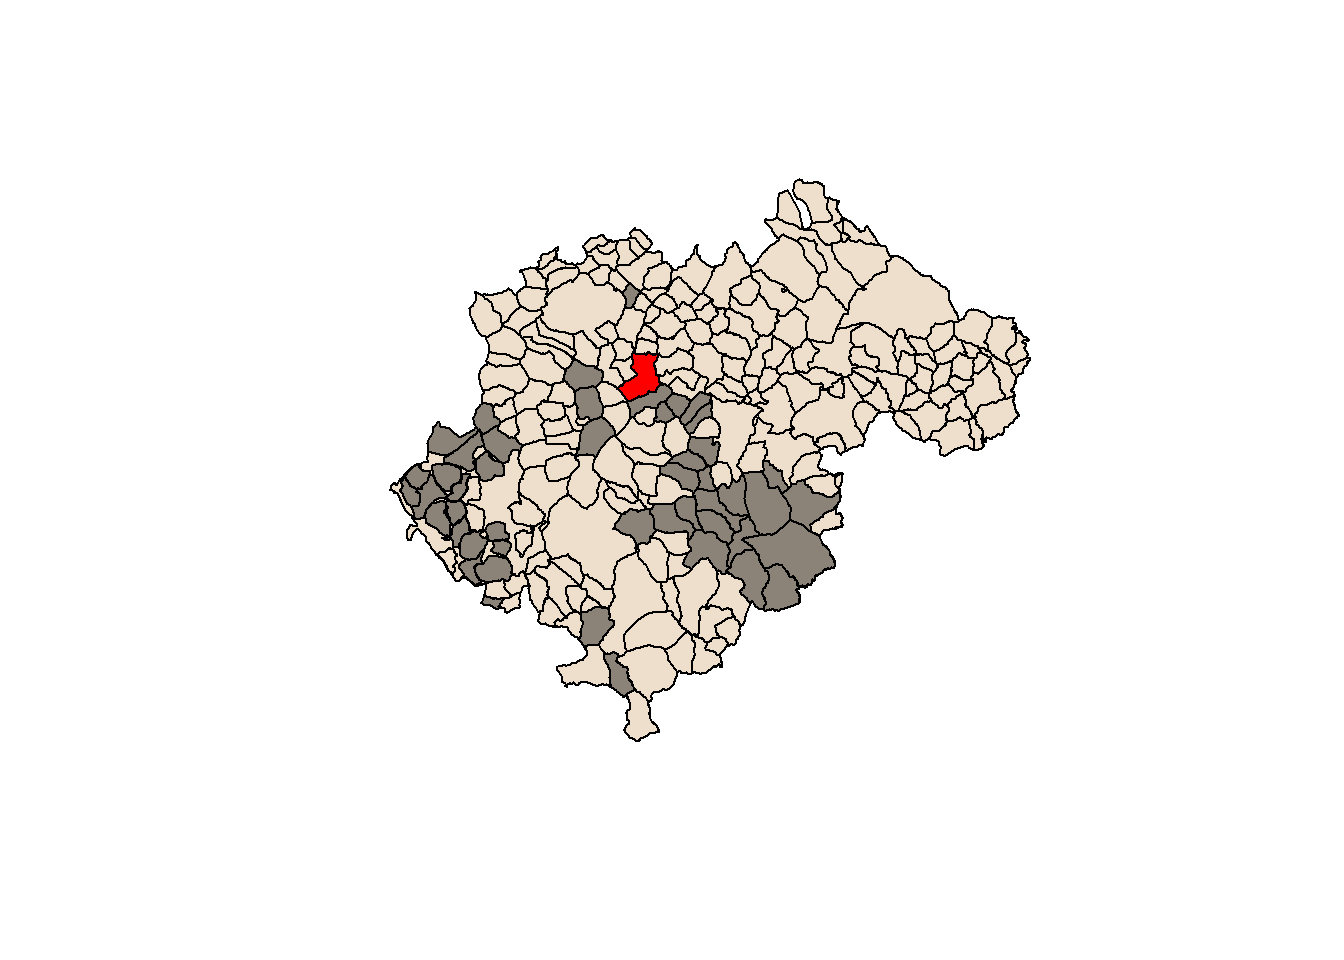
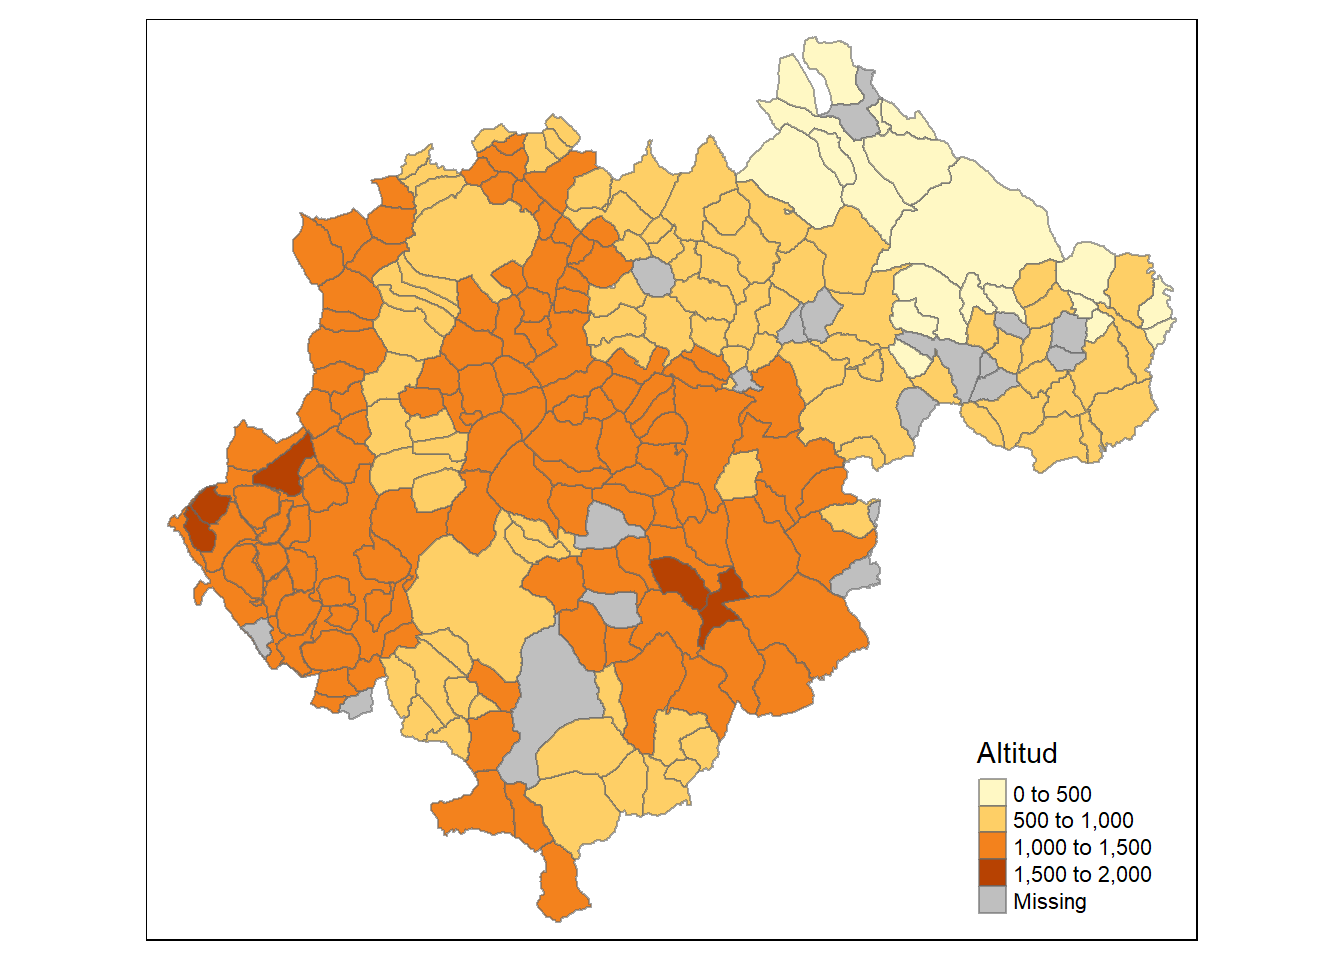
aa

diff --git a/public/blog/2017/12/29/altitud-de-los-pueblos-de-teruel-mapas/index.html b/public/blog/2017/12/29/altitud-de-los-pueblos-de-teruel-mapas/index.html
@@ -281,7 +281,18 @@ municipios@data &lt;-  left_join( municipios@data , Teruel, by = c(&quot;NombreM
 <p><img src="../../../../../post/2017-12-29-altitud-de-los-pueblos-de-teruel-mapas_files/figure-html/unnamed-chunk-7-1.png" width="672" /></p>
 <p>Gráfico de los municipios por altura. En color azulito las zonas por debajo de 600 metros, aproximadamente el <a href="https://es.wikipedia.org/wiki/Bajo_Arag%C3%B3n">Bajo Aragón</a>. En marrón oscuro las zonas más altas entre ellas mi pueblo.</p>
 <p>Tengo que aprender un poco de palettes!! Justo cabo de ver <a href="https://github.com/AndreaCirilloAC/paletter">este pkg</a></p>
-<p>Ahora un gráfico con los pueblos más altos que Pancrudo. Pancrudo es mi pueblo y lo voy a poner en rojo. En marrón oscuro los que nos ganan en altura. Tan tan arriba no creo que sea sano vivir!! 😱 😄</p>
+<p>Pero seguro que con <code>tmap</code> sale más bonito, y voy a dar más cortes en la escala</p>
+<pre class="r"><code>library(tmap)
+library(viridisLite)
+
+  tm_shape(municipios, alpha = 0.3) +
+  tm_fill(col = &quot;Altitud&quot;, title = &quot;Altitud&quot;, n = 5) +
+  tm_polygons(border.alpha = 0.6) +
+  tm_layout(legend.position = c(&quot;right&quot;, &quot;bottom&quot;))</code></pre>
+<p><img src="../../../../../post/2017-12-29-altitud-de-los-pueblos-de-teruel-mapas_files/figure-html/unnamed-chunk-8-1.png" width="672" /></p>
+<p>Sí!! Sale más bonito.</p>
+<p><br></p>
+<p>Ahora un gráfico con los pueblos más altos que Pancrudo. Pancrudo es mi pueblo y lo voy a poner en rojo. En marrón oscuro los que nos ganan en altura. Tan tan arriba no creo que sea sano vivir!! 😨 😃</p>
 <p><br></p>
 <div id="mapa-con-los-pueblos-mas-altos-que-pancrudo" class="section level2">
 <h2>Mapa con los pueblos más altos que Pancrudo</h2>
@@ -293,7 +304,7 @@ sel &lt;- municipios$Altitud &gt; my_sel$Altitud  &amp; !is.na(municipios$Altitu
 plot(municipios[ sel, ], col = &quot;antiquewhite4&quot;, add = TRUE) 
 sel &lt;- municipios$Altitud == my_sel$Altitud  &amp; !is.na(municipios$Altitud)
 plot(municipios[ sel, ], col = &quot;red&quot;, add = TRUE) # add selected zones to map</code></pre>
-<p><img src="../../../../../post/2017-12-29-altitud-de-los-pueblos-de-teruel-mapas_files/figure-html/unnamed-chunk-8-1.png" width="672" /></p>
+<p><img src="../../../../../post/2017-12-29-altitud-de-los-pueblos-de-teruel-mapas_files/figure-html/unnamed-chunk-9-1.png" width="672" /></p>
 <p>Como veis, Pancrudo está bastante alto, 1235 metros según la Wiki, un poco menos según mi primo. Rillo nos gana, pero solo por 34 metros. ¿Seguro que han medido bien?</p>
 <p>Ya que estamos me da curiosidad y quiero hacer el <strong>mapa por densidad de población</strong>:</p>
 <p><br></p>
@@ -301,10 +312,9 @@ plot(municipios[ sel, ], col = &quot;red&quot;, add = TRUE) # add selected zones
 <div id="mapa-por-densidad-de-poblacion" class="section level2">
 <h2>Mapa por densidad de población</h2>
 <pre class="r"><code>sp::spplot(municipios, zcol = &quot;Densidad&quot;, cuts = 2, col.regions  = c(&quot;cadetblue1&quot;, &quot;antiquewhite2&quot;, &quot;antiquewhite4&quot;))</code></pre>
-<p><img src="../../../../../post/2017-12-29-altitud-de-los-pueblos-de-teruel-mapas_files/figure-html/unnamed-chunk-10-1.png" width="672" /></p>
 <p>Las 3 poblaciones en marrón (densidad &gt; q casi 60) son en este orden Utrillas, Teruel y Andorra. El agujero (polígono en blanco) que hay al lado de Teruel creo que es La Puebla de valverde. Aparece en blanco porque en los datos sacados del INE su nombre es “Puebla de Valverde, La” y en la tabla de internet es “La Puebla de Valverde”. No lo arreglo porque este blog es para aprender y relajarme y ya vale por hoy.</p>
 <p><br></p>
-<p>Bueno, como veis mis conocimientos sobre gráficos espaciales (y gráficos en general) en R es limitado, pero estoy en ello. De hecho hace como año y medio hacia gráficos bastante más potentes. Usé <code>ggmpap</code> <code>leaflet</code> y <code>ggplot2</code> y alguno más, pero todo se olvida, y ahora prefiero empezar con madatos espaciales por lo nuevo; that is, el pkg <code>sf</code>. 😎.</p>
+<p>Bueno, como veis mis conocimientos sobre gráficos espaciales (y gráficos en general) en R es limitado, pero estoy en ello. De hecho hace como año y medio hacia gráficos bastante más potentes. Usé <code>ggmpap</code> <code>leaflet</code> y <code>ggplot2</code> y alguno más, pero todo se olvida, y ahora prefiero empezar con datos espaciales por lo nuevo; that is, el pkg <code>sf</code>. 😎.</p>
 <p><br></p>
 <p><strong>P.S:</strong> (Bastante técnico, al menos para mi)</p>
 <p>Resulta que yo quería haber puesto los 2 post sobre altitudes en uno sólo, pero resulta que cuando los juntaba me daba problemas la datatable. Mirando por internet vi la solución <a href="https://stackoverflow.com/questions/43594039/dt-package-not-working-with-blogdown-using-hugo-future-imperfect-theme">aquí</a>, pero funciona sólo a medias. La verdad es que lo mejor de R es la comunidad de usuarios!!</p>

diff --git a/content/post/2017-12-29-altitud-de-los-pueblos-de-teruel-mapas.html b/content/post/2017-12-29-altitud-de-los-pueblos-de-teruel-mapas.html
@@ -37,7 +37,18 @@ municipios@data &lt;-  left_join( municipios@data , Teruel, by = c(&quot;NombreM
 <p><img src="/post/2017-12-29-altitud-de-los-pueblos-de-teruel-mapas_files/figure-html/unnamed-chunk-7-1.png" width="672" /></p>
 <p>Gráfico de los municipios por altura. En color azulito las zonas por debajo de 600 metros, aproximadamente el <a href="https://es.wikipedia.org/wiki/Bajo_Arag%C3%B3n">Bajo Aragón</a>. En marrón oscuro las zonas más altas entre ellas mi pueblo.</p>
 <p>Tengo que aprender un poco de palettes!! Justo cabo de ver <a href="https://github.com/AndreaCirilloAC/paletter">este pkg</a></p>
-<p>Ahora un gráfico con los pueblos más altos que Pancrudo. Pancrudo es mi pueblo y lo voy a poner en rojo. En marrón oscuro los que nos ganan en altura. Tan tan arriba no creo que sea sano vivir!! 😱 😄</p>
+<p>Pero seguro que con <code>tmap</code> sale más bonito, y voy a dar más cortes en la escala</p>
+<pre class="r"><code>library(tmap)
+library(viridisLite)
+
+  tm_shape(municipios, alpha = 0.3) +
+  tm_fill(col = &quot;Altitud&quot;, title = &quot;Altitud&quot;, n = 5) +
+  tm_polygons(border.alpha = 0.6) +
+  tm_layout(legend.position = c(&quot;right&quot;, &quot;bottom&quot;))</code></pre>
+<p><img src="/post/2017-12-29-altitud-de-los-pueblos-de-teruel-mapas_files/figure-html/unnamed-chunk-8-1.png" width="672" /></p>
+<p>Sí!! Sale más bonito.</p>
+<p><br></p>
+<p>Ahora un gráfico con los pueblos más altos que Pancrudo. Pancrudo es mi pueblo y lo voy a poner en rojo. En marrón oscuro los que nos ganan en altura. Tan tan arriba no creo que sea sano vivir!! 😨 😃</p>
 <p><br></p>
 <div id="mapa-con-los-pueblos-mas-altos-que-pancrudo" class="section level2">
 <h2>Mapa con los pueblos más altos que Pancrudo</h2>
@@ -49,7 +60,7 @@ sel &lt;- municipios$Altitud &gt; my_sel$Altitud  &amp; !is.na(municipios$Altitu
 plot(municipios[ sel, ], col = &quot;antiquewhite4&quot;, add = TRUE) 
 sel &lt;- municipios$Altitud == my_sel$Altitud  &amp; !is.na(municipios$Altitud)
 plot(municipios[ sel, ], col = &quot;red&quot;, add = TRUE) # add selected zones to map</code></pre>
-<p><img src="/post/2017-12-29-altitud-de-los-pueblos-de-teruel-mapas_files/figure-html/unnamed-chunk-8-1.png" width="672" /></p>
+<p><img src="/post/2017-12-29-altitud-de-los-pueblos-de-teruel-mapas_files/figure-html/unnamed-chunk-9-1.png" width="672" /></p>
 <p>Como veis, Pancrudo está bastante alto, 1235 metros según la Wiki, un poco menos según mi primo. Rillo nos gana, pero solo por 34 metros. ¿Seguro que han medido bien?</p>
 <p>Ya que estamos me da curiosidad y quiero hacer el <strong>mapa por densidad de población</strong>:</p>
 <p><br></p>
@@ -57,10 +68,9 @@ plot(municipios[ sel, ], col = &quot;red&quot;, add = TRUE) # add selected zones
 <div id="mapa-por-densidad-de-poblacion" class="section level2">
 <h2>Mapa por densidad de población</h2>
 <pre class="r"><code>sp::spplot(municipios, zcol = &quot;Densidad&quot;, cuts = 2, col.regions  = c(&quot;cadetblue1&quot;, &quot;antiquewhite2&quot;, &quot;antiquewhite4&quot;))</code></pre>
-<p><img src="/post/2017-12-29-altitud-de-los-pueblos-de-teruel-mapas_files/figure-html/unnamed-chunk-10-1.png" width="672" /></p>
 <p>Las 3 poblaciones en marrón (densidad &gt; q casi 60) son en este orden Utrillas, Teruel y Andorra. El agujero (polígono en blanco) que hay al lado de Teruel creo que es La Puebla de valverde. Aparece en blanco porque en los datos sacados del INE su nombre es “Puebla de Valverde, La” y en la tabla de internet es “La Puebla de Valverde”. No lo arreglo porque este blog es para aprender y relajarme y ya vale por hoy.</p>
 <p><br></p>
-<p>Bueno, como veis mis conocimientos sobre gráficos espaciales (y gráficos en general) en R es limitado, pero estoy en ello. De hecho hace como año y medio hacia gráficos bastante más potentes. Usé <code>ggmpap</code> <code>leaflet</code> y <code>ggplot2</code> y alguno más, pero todo se olvida, y ahora prefiero empezar con madatos espaciales por lo nuevo; that is, el pkg <code>sf</code>. 😎.</p>
+<p>Bueno, como veis mis conocimientos sobre gráficos espaciales (y gráficos en general) en R es limitado, pero estoy en ello. De hecho hace como año y medio hacia gráficos bastante más potentes. Usé <code>ggmpap</code> <code>leaflet</code> y <code>ggplot2</code> y alguno más, pero todo se olvida, y ahora prefiero empezar con datos espaciales por lo nuevo; that is, el pkg <code>sf</code>. 😎.</p>
 <p><br></p>
 <p><strong>P.S:</strong> (Bastante técnico, al menos para mi)</p>
 <p>Resulta que yo quería haber puesto los 2 post sobre altitudes en uno sólo, pero resulta que cuando los juntaba me daba problemas la datatable. Mirando por internet vi la solución <a href="https://stackoverflow.com/questions/43594039/dt-package-not-working-with-blogdown-using-hugo-future-imperfect-theme">aquí</a>, pero funciona sólo a medias. La verdad es que lo mejor de R es la comunidad de usuarios!!</p>
